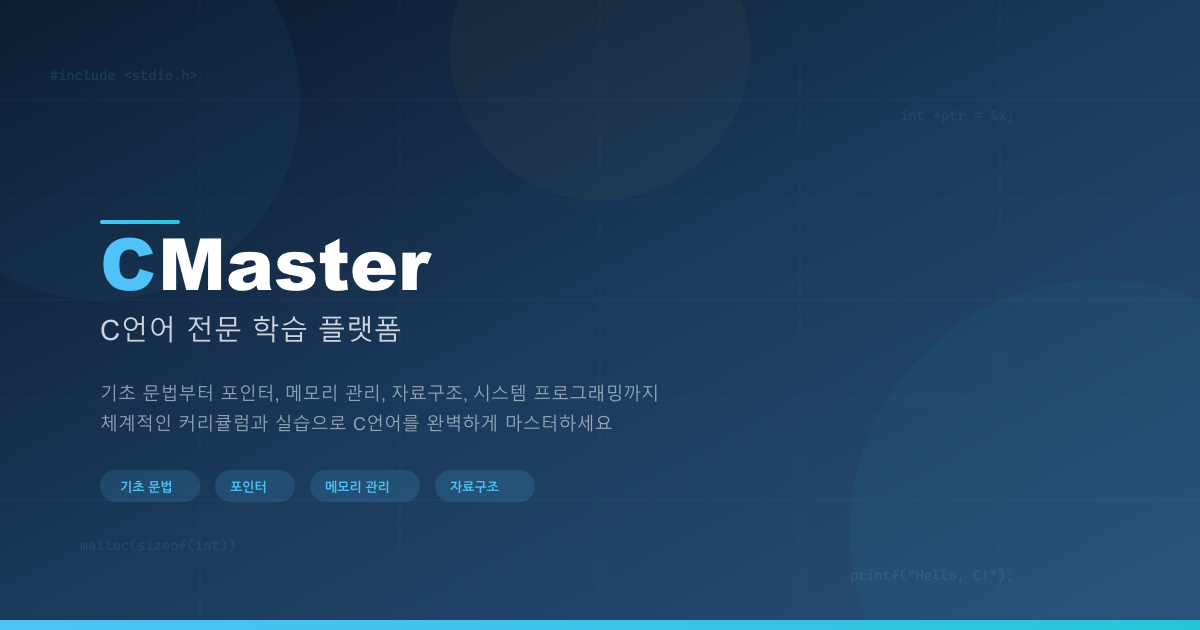
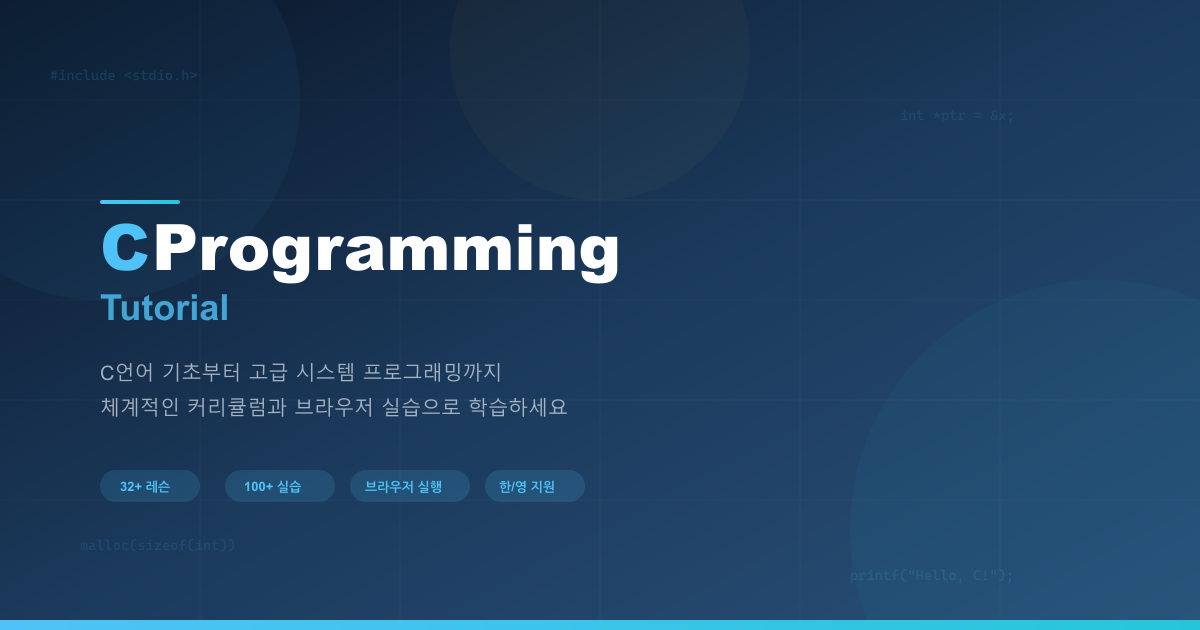
Enhance hero terminal with source code view + regenerate OG image
- Hero terminal now shows hello.c source with syntax highlighting
  (preprocessor, strings, types, keywords, functions, numbers)
  plus a separate terminal panel with compile & run output
- OG image updated: "C Programming Tutorial" branding, feature tags
  (32+ lessons, 100+ exercises, browser execution, KR/EN support)

diff --git a/scripts/generate-og.js b/scripts/generate-og.js
@@ -46,31 +46,31 @@ const svg = `
   <text x="850" y="580" font-family="monospace" font-size="14" fill="rgba(79,195,247,0.15)">printf("Hello, C!");</text>
 
   <!-- Accent line -->
-  <rect x="100" y="220" width="80" height="4" rx="2" fill="url(#accent)"/>
+  <rect x="100" y="200" width="80" height="4" rx="2" fill="url(#accent)"/>
 
   <!-- Main title -->
-  <text x="100" y="290" font-family="Arial, sans-serif" font-size="72" font-weight="900" fill="#4FC3F7">C</text>
-  <text x="158" y="290" font-family="Arial, sans-serif" font-size="72" font-weight="900" fill="white">Master</text>
+  <text x="100" y="270" font-family="Arial, sans-serif" font-size="64" font-weight="900" fill="#4FC3F7">C</text>
+  <text x="152" y="270" font-family="Arial, sans-serif" font-size="64" font-weight="900" fill="white"> Programming</text>
 
   <!-- Subtitle -->
-  <text x="100" y="340" font-family="Arial, sans-serif" font-size="28" fill="rgba(224,231,239,0.9)">C언어 전문 학습 플랫폼</text>
+  <text x="100" y="320" font-family="Arial, sans-serif" font-size="36" font-weight="700" fill="rgba(79,195,247,0.8)">Tutorial</text>
 
   <!-- Description -->
-  <text x="100" y="400" font-family="Arial, sans-serif" font-size="18" fill="rgba(224,231,239,0.6)">기초 문법부터 포인터, 메모리 관리, 자료구조, 시스템 프로그래밍까지</text>
-  <text x="100" y="430" font-family="Arial, sans-serif" font-size="18" fill="rgba(224,231,239,0.6)">체계적인 커리큘럼과 실습으로 C언어를 완벽하게 마스터하세요</text>
+  <text x="100" y="380" font-family="Arial, sans-serif" font-size="20" fill="rgba(224,231,239,0.7)">C언어 기초부터 고급 시스템 프로그래밍까지</text>
+  <text x="100" y="415" font-family="Arial, sans-serif" font-size="20" fill="rgba(224,231,239,0.7)">체계적인 커리큘럼과 브라우저 실습으로 학습하세요</text>
 
   <!-- Feature tags -->
   <rect x="100" y="470" width="100" height="32" rx="16" fill="rgba(79,195,247,0.15)"/>
-  <text x="120" y="491" font-family="Arial, sans-serif" font-size="13" font-weight="600" fill="#4FC3F7">기초 문법</text>
+  <text x="120" y="491" font-family="Arial, sans-serif" font-size="13" font-weight="600" fill="#4FC3F7">32+ 레슨</text>
 
-  <rect x="215" y="470" width="80" height="32" rx="16" fill="rgba(79,195,247,0.15)"/>
-  <text x="230" y="491" font-family="Arial, sans-serif" font-size="13" font-weight="600" fill="#4FC3F7">포인터</text>
+  <rect x="225" y="470" width="110" height="32" rx="16" fill="rgba(79,195,247,0.15)"/>
+  <text x="244" y="491" font-family="Arial, sans-serif" font-size="13" font-weight="600" fill="#4FC3F7">100+ 실습</text>
 
-  <rect x="310" y="470" width="110" height="32" rx="16" fill="rgba(79,195,247,0.15)"/>
-  <text x="325" y="491" font-family="Arial, sans-serif" font-size="13" font-weight="600" fill="#4FC3F7">메모리 관리</text>
+  <rect x="350" y="470" width="120" height="32" rx="16" fill="rgba(79,195,247,0.15)"/>
+  <text x="365" y="491" font-family="Arial, sans-serif" font-size="13" font-weight="600" fill="#4FC3F7">브라우저 실행</text>
 
-  <rect x="435" y="470" width="100" height="32" rx="16" fill="rgba(79,195,247,0.15)"/>
-  <text x="450" y="491" font-family="Arial, sans-serif" font-size="13" font-weight="600" fill="#4FC3F7">자료구조</text>
+  <rect x="485" y="470" width="100" height="32" rx="16" fill="rgba(79,195,247,0.15)"/>
+  <text x="499" y="491" font-family="Arial, sans-serif" font-size="13" font-weight="600" fill="#4FC3F7">한/영 지원</text>
 
   <!-- Bottom accent bar -->
   <rect x="0" y="620" width="1200" height="10" fill="url(#accent)"/>

diff --git a/src/pages/Home.jsx b/src/pages/Home.jsx
@@ -104,7 +104,21 @@ export default function Home() {
           </div>
 
           <div className="hero-terminal-col">
+            {/* Source Code */}
             <div className="hero-terminal">
+              <div className="terminal-header">
+                <span className="terminal-dot red" />
+                <span className="terminal-dot yellow" />
+                <span className="terminal-dot green" />
+                <span className="terminal-title">hello.c</span>
+              </div>
+              <div className="terminal-body">
+                <pre className="terminal-code"><code><span className="code-preprocessor">#include</span> <span className="code-string">&lt;stdio.h&gt;</span>{'\n'}{'\n'}<span className="code-type">int</span> <span className="code-fn">main</span>() {'{'}{'\n'}{'    '}<span className="code-fn">printf</span>(<span className="code-string">"Hello, C Programming!\n"</span>);{'\n'}{'    '}<span className="code-keyword">return</span> <span className="code-number">0</span>;{'\n'}{'}'}</code></pre>
+              </div>
+            </div>
+
+            {/* Terminal Output */}
+            <div className="hero-terminal hero-terminal-run">
               <div className="terminal-header">
                 <span className="terminal-dot red" />
                 <span className="terminal-dot yellow" />
@@ -113,12 +127,12 @@ export default function Home() {
               </div>
               <div className="terminal-body">
                 <div className="terminal-line">
-                  <span className="terminal-prompt">$</span>
-                  <span className="terminal-command"> gcc -o hello hello.c</span>
+                  <span className="terminal-prompt">$ </span>
+                  <span className="terminal-command">gcc -o hello hello.c</span>
                 </div>
                 <div className="terminal-line">
-                  <span className="terminal-prompt">$</span>
-                  <span className="terminal-command"> ./hello</span>
+                  <span className="terminal-prompt">$ </span>
+                  <span className="terminal-command">./hello</span>
                 </div>
                 <div className="terminal-line terminal-output">
                   Hello, C Programming!

diff --git a/src/styles/hero.css b/src/styles/hero.css
@@ -213,6 +213,30 @@
   padding-left: 0;
 }
 
+.hero-terminal-run {
+  margin-top: 8px;
+}
+
+.terminal-code {
+  margin: 0;
+  font-family: 'JetBrains Mono', monospace;
+  font-size: 13px;
+  line-height: 1.7;
+  color: rgba(224, 231, 239, 0.85);
+  white-space: pre;
+}
+
+.terminal-code code {
+  display: block;
+}
+
+.code-preprocessor { color: #C792EA; }
+.code-string { color: #C3E88D; }
+.code-type { color: #FFCB6B; }
+.code-keyword { color: #C792EA; }
+.code-fn { color: #82AAFF; }
+.code-number { color: #F78C6C; }
+
 /* === Stats Section === */
 .stats-section {
   padding: 48px 24px;
